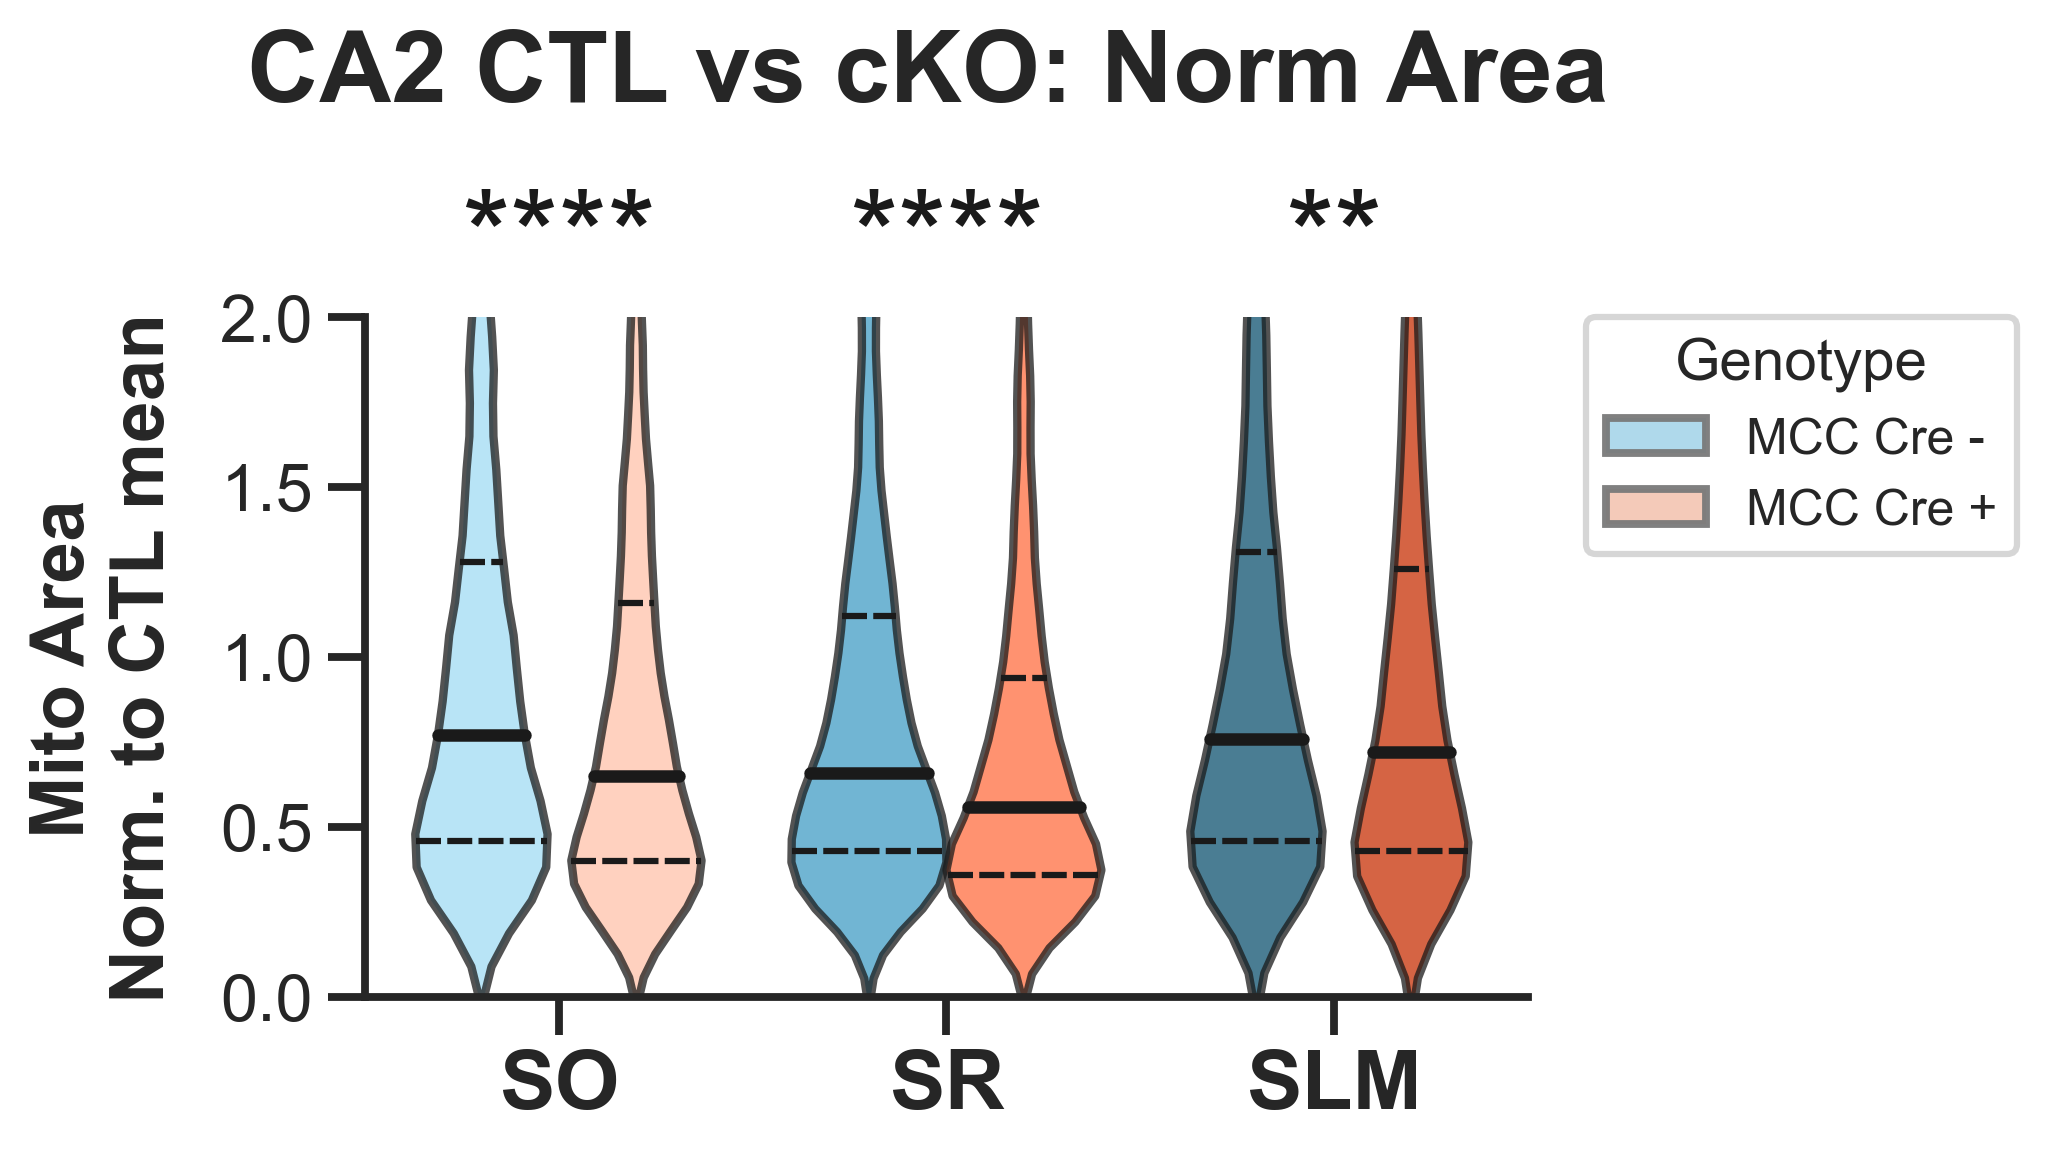
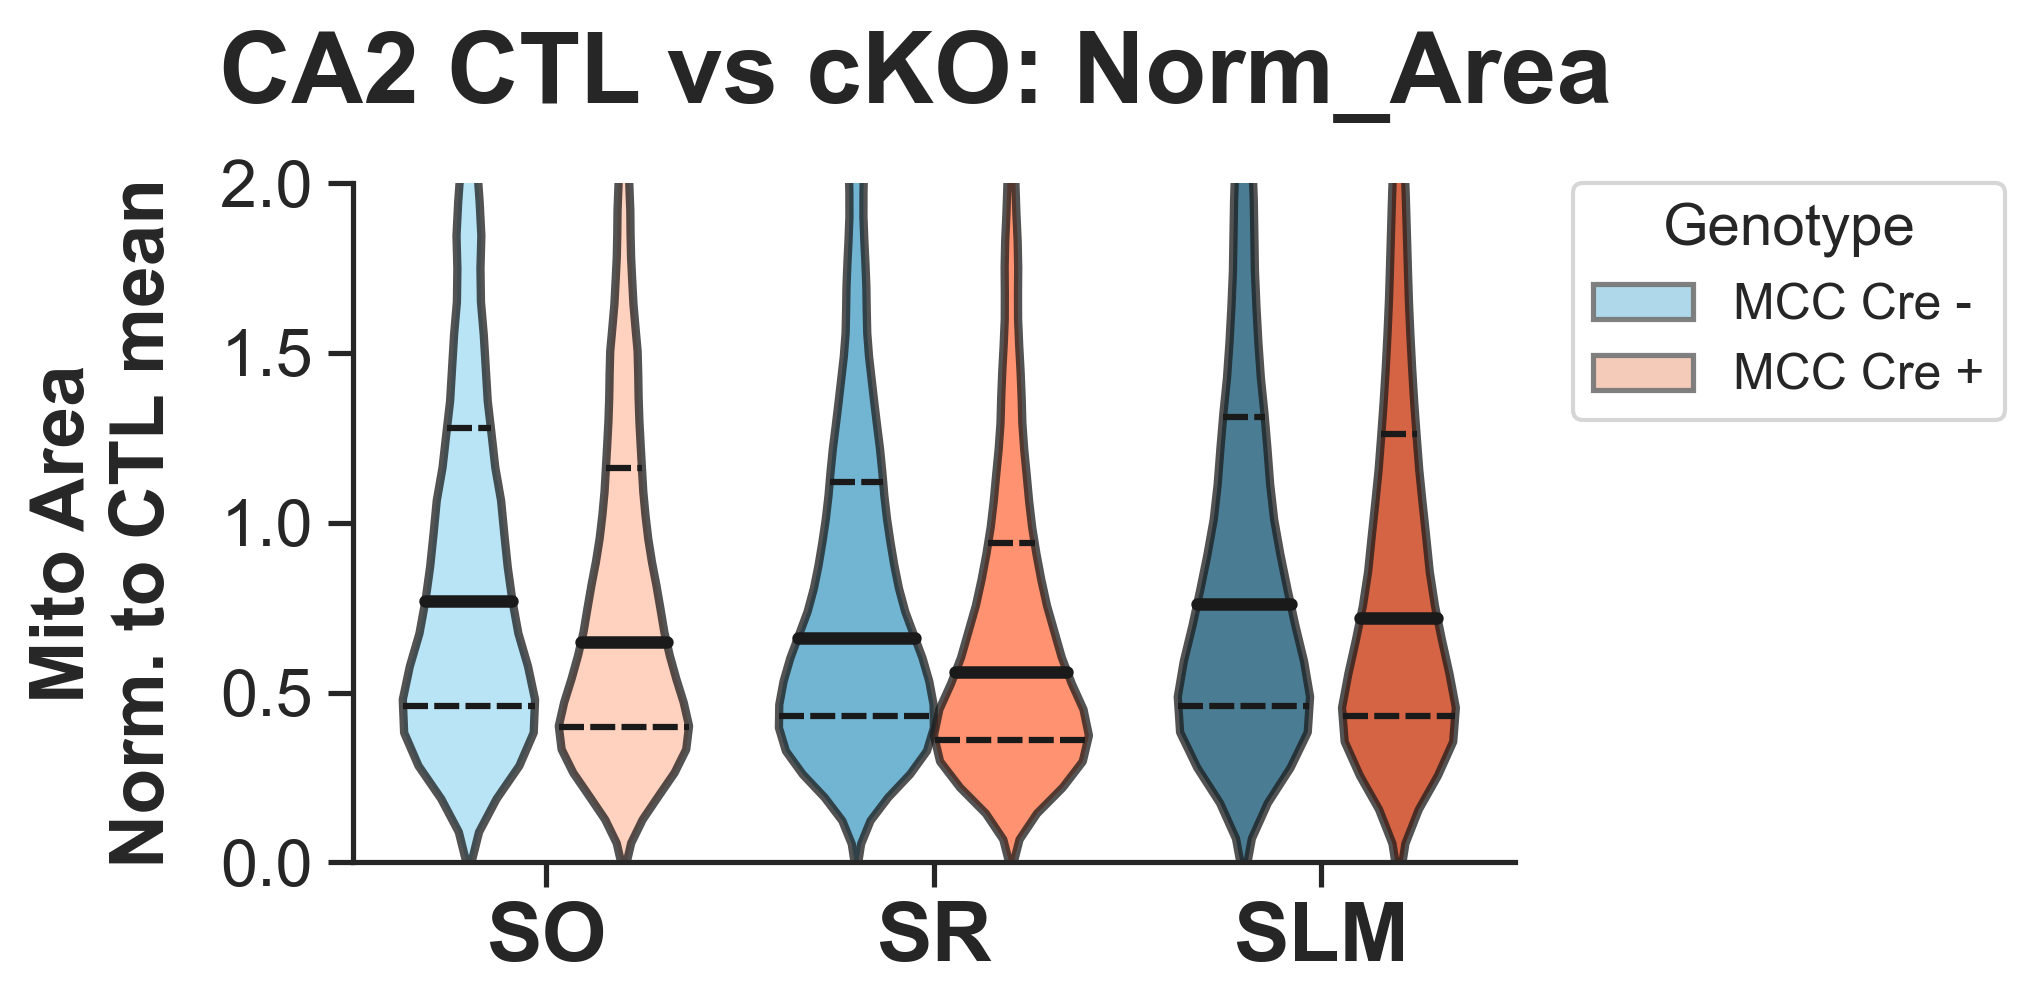
Removed ANOVA stats from the analysis code and plots

Changed region(s): [[0.0, 0.1539, 0.7434, 0.9851], [0.7743, 0.1539, 0.9912, 0.4926], [0.0929, 0.0, 0.8053, 0.1231]]

diff --git a/EM_image_mito_analysis_Biodock_6_20_2024_cleaned.py b/EM_image_mito_analysis_Biodock_6_20_2024_cleaned.py
@@ -352,11 +352,17 @@ num_groups = len(group_list)
 # Go back and add count before here
 if num_groups >1:
     
-    # get the group averages by layer
-    genotype_avg = round(mito_data.groupby(["Genotype", "Layer"]).median(numeric_only=True),2)
+    # Get the group medians by layer
+    genotype_med = round(mito_data.groupby(["Genotype", "Layer"]).median(numeric_only=True),2)
     
-    #Subset to get only the metrics of interest
-    genotype_sub = genotype_avg.loc[:, ("Area_um_sq", "Aspect_Ratio", "Perimeter_um", "Feret_diam_um", "NN_Dist_um")]
+    # Also look at the group standard deviations
+    genotype_std = round(mito_data.groupby(["Genotype", "Layer"]).std(numeric_only=True),2)
+    
+    # Subset to get only the metrics of interest
+    genotype_sub = genotype_med.loc[:, ("Area_um_sq", "Aspect_Ratio", "Perimeter_um", "Feret_diam_um", "NN_Dist_um")]
+    
+    # Subset the standard dev table as well with the same columns
+    genotype_sub_std = genotype_std.loc[:, ("Area_um_sq", "Aspect_Ratio", "Perimeter_um", "Feret_diam_um", "NN_Dist_um")]
     
     # Get count from the mito_avgs dataframe
     genotype_sub["Count_100um2"] = round(mito_avgs[["Genotype", "Layer", "Count"]].groupby(["Genotype", "Layer"]).median(),1)
@@ -365,7 +371,8 @@ if num_groups >1:
     # print to the console
     print("\n Group Averages:\n", genotype_sub)
     # Save as a CSV file
-    genotype_sub.to_csv(os.path.join(dirName, str("SEM_mito_group_summary.csv")))
+    genotype_sub.to_csv(os.path.join(dirName, str("SEM_mito_group_summary_medians.csv")))
+    genotype_sub_std.to_csv(os.path.join(dirName, str("SEM_mito_group_summary_std.csv")))
     
     # Get 75% percentile stats for area and diameter to use to pick representative images
     desc_stats = mito_data[["Area", "Feret Diameter Maximum", "Genotype", "Layer"]].groupby(["Genotype", "Layer"]).describe()
@@ -406,7 +413,8 @@ KO_colors = sns.cubehelix_palette(n_colors = 3, start=1.05, light=0.85, dark=0.3
 
 print("\nAnalyzing denditic mitochondria in the CTL (not normalized):")
 
-# violin plot for individual mito area in the CTL 
+# violin plot for individual mito area in the CTL
+# If you want to run an ANOVA with any of these plots, add "stats = 1" to the line below and an ANOVA and post hoc tests will be run between your defined groups and saved as CSV files and significance added to the plots
 WT_KO_violin(data = WT_data, data_col = "Area_um_sq", group=0, title ="CTL CA2", save_path = fig_path, units = "Mito Area (\u00B5m\u00B2)", y_range = [0,0.5], colors = WT_colors)
 
 # violin plot for mito Feret's diameter in CTL:
@@ -427,16 +435,16 @@ print("\nAnalyzing denditic mitochondria in the CTL and MCU KO (normalized to CT
 violin_colors = [item for pair in zip(WT_colors, KO_colors + [0]) for item in pair]
 
 # violin plot for individual mito area in cKO and CTL normalized to CTL
-WT_KO_violin(data = mito_data, data_col = "Norm_Area", title = "CA2 CTL vs cKO", save_path = fig_path, units = "Mito Area \nNorm. to CTL mean", y_range = [0,2], colors = violin_colors, stats=1)
+WT_KO_violin(data = mito_data, data_col = "Norm_Area", title = "CA2 CTL vs cKO", save_path = fig_path, units = "Mito Area \nNorm. to CTL mean", y_range = [0,2], colors = violin_colors)
 
 # violin plot for mito Feret's diameter normalized to CTL:
-WT_KO_violin(data = mito_data, data_col = "Norm_Diam", title = "CA2 CTL vs cKO", save_path = fig_path, units = "Feret's Diameter \nNorm. to CTL mean", y_range = [0,1.8], colors = violin_colors, stats=1)
+WT_KO_violin(data = mito_data, data_col = "Norm_Diam", title = "CA2 CTL vs cKO", save_path = fig_path, units = "Feret's Diameter \nNorm. to CTL mean", y_range = [0,1.8], colors = violin_colors)
 
 # violin plot for mito aspect ratio normalized to CTL:
-WT_KO_violin(data = mito_data, data_col = "Norm_Aspect", title = "CA2 CTL vs cKO", save_path = fig_path, units = "Aspect Ratio \nNorm. to CTL mean", y_range = [0,2], colors = violin_colors, stats=1)
+WT_KO_violin(data = mito_data, data_col = "Norm_Aspect", title = "CA2 CTL vs cKO", save_path = fig_path, units = "Aspect Ratio \nNorm. to CTL mean", y_range = [0,2], colors = violin_colors)
 
 # violin plot for nearest neighbor distance normalized to CTL:
-WT_KO_violin(data = mito_data, data_col = "Norm_Dist", title = "CA2 CTL vs cKO", save_path = fig_path, units = "NN Distance \nNorm. to CTL mean", y_range = [0,3], colors = violin_colors, stats=1)
+WT_KO_violin(data = mito_data, data_col = "Norm_Dist", title = "CA2 CTL vs cKO", save_path = fig_path, units = "NN Distance \nNorm. to CTL mean", y_range = [0,3], colors = violin_colors)
 
 
 #%%% Now lets make a few more plots to look at mitochondrial content across layers in the cKO and CTL. We will plot mitochondrial count and mitochondrial total area.
@@ -454,10 +462,10 @@ print("\nMitochondrial content (per tile):")
 # Get metrics for mitochondrial content like the number of mitochondria and total mito area. These will be at the level of image tile and will be plotted as box plots instead of violin plots.
 
 # Box plot of total mitochondria area per tile (100 um2)
-WT_KO_violin(data = mito_avgs, data_col = "Total_mito_Area_um_sq", plot_type ="box", save_path = plot_path, units = "Total mito Area \nper 100 \u00B5m\u00B2", y_range = [0,8], stats=1)
+WT_KO_violin(data = mito_avgs, data_col = "Total_mito_Area_um_sq", plot_type ="box", title = "CA2 CTL vs cKO", save_path = plot_path, units = "Total mito Area \nper 100 \u00B5m\u00B2", y_range = [0,8])
 
 # Box plot of Number of mitos per tile (100 um2)
-WT_KO_violin(data = mito_avgs, data_col = "Count", plot_type ="box", save_path = plot_path, units = "Mito Count / 100 \u00B5m\u00B2", y_range = [0,60], stats=1)
+WT_KO_violin(data = mito_avgs, data_col = "Count", plot_type ="box", title = "CA2 CTL vs cKO", save_path = plot_path, units = "Mito Count / 100 \u00B5m\u00B2", y_range = [0,60])
 
 # Generate a scatter plot with total mito area on the X axis and mitochondria count on the Y. This is part of Figure 4 of the manuscript.
 
@@ -538,7 +546,7 @@ norm_to_ctl_grouped = round(norm_to_ctl_tile.groupby(["Genotype", "Layer"], obse
 
 # Create a dataframe for the normalized data
 # grab the normalized data for the other metrics from the genotype_avg dataframe
-norm_indiv_data = genotype_avg.loc[:, ("Norm_Area", "Norm_Aspect", "Norm_Diam", "Norm_Dist")]
+norm_indiv_data = genotype_med.loc[:, ("Norm_Area", "Norm_Aspect", "Norm_Diam", "Norm_Dist")]
 
 # combine the normalized data into a dataframe
 norm_to_ctl_grouped = pd.concat([norm_indiv_data, norm_to_ctl_grouped], axis=1)

diff --git a/mito_functions.py b/mito_functions.py
@@ -582,9 +582,9 @@ def WT_KO_violin(data, data_col, save_path, plot_type = "violin", group = "Genot
 
     # Save the figure as a PNG file
     if group == 0: # if no further grouping
-        plt.savefig(os.path.join(save_path, str(data_col + "_by_layer_violin.png")), format='png', dpi=300, bbox_inches='tight')
+        plt.savefig(os.path.join(save_path, str(data_col + f"_by_layer_{plot_type}.png")), format='png', dpi=300, bbox_inches='tight')
     else: # if a group was used, include it in the filename
-        plt.savefig(os.path.join(save_path, str(data_col + "_by_" + str(group) + "_violin.png")), format='png', dpi=300, bbox_inches='tight')
+        plt.savefig(os.path.join(save_path, str(data_col + "_by_" + str(group) + f"_{plot_type}.png")), format='png', dpi=300, bbox_inches='tight')
     
         
         
